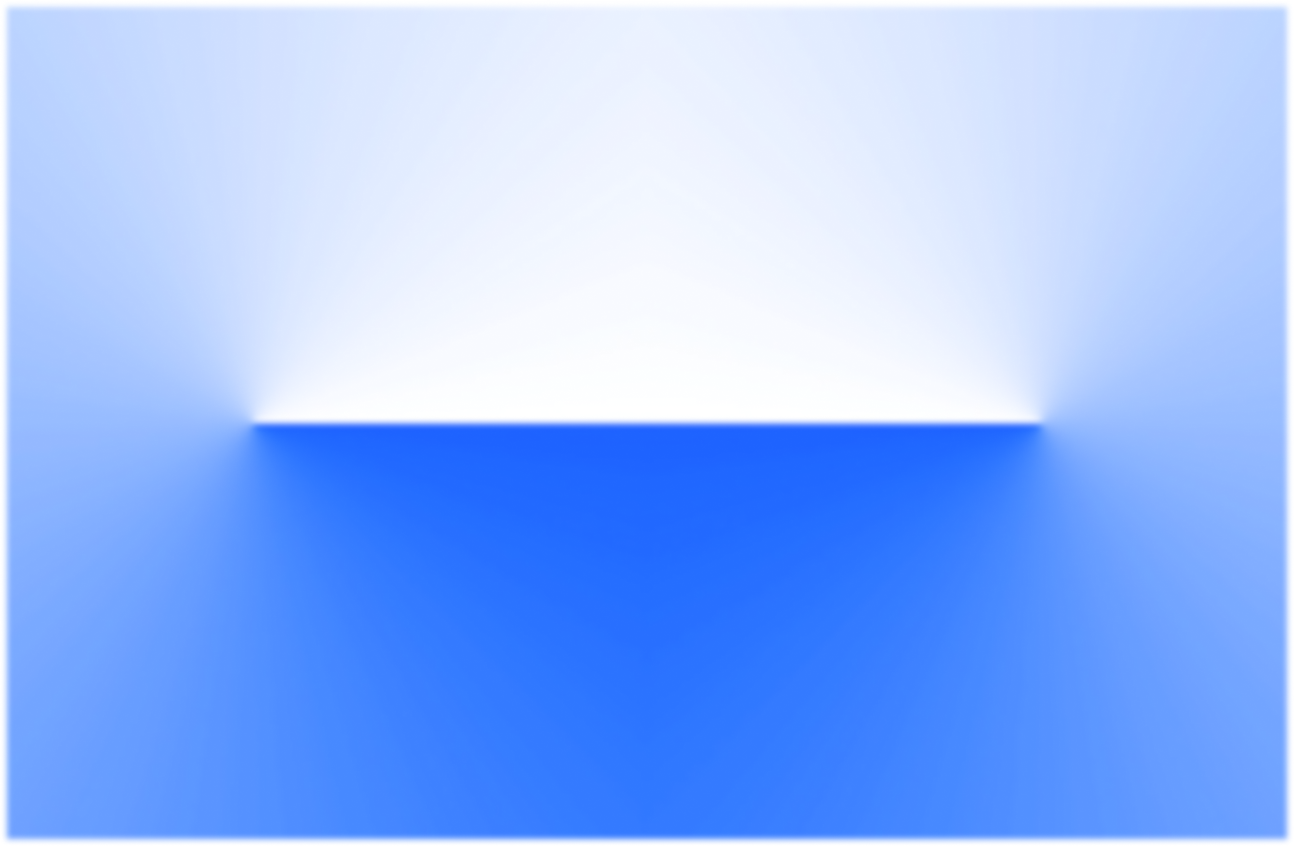
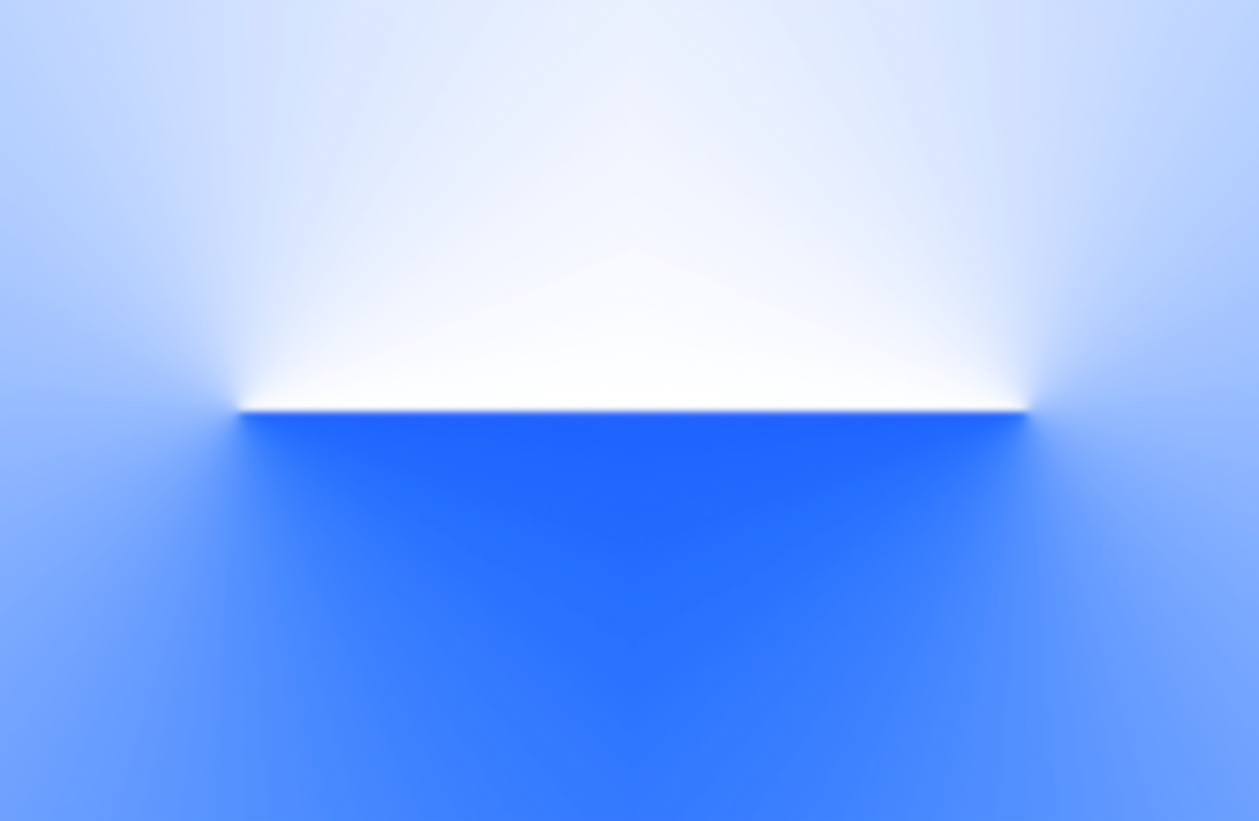
added copy functionality

Changed region(s): [[0.0, 0.0, 1.0, 1.0], [0.8054, 0.4568, 0.8364, 0.5481], [0.1859, 0.4872, 0.2168, 0.5177]]

diff --git a/style.css b/style.css
@@ -17,7 +17,7 @@ body {
     padding: 20px 0;
     color: #0052fe;
     background-image: url('./images/background.png');
-    background-size: cover;
+    background-size: 100%;
     background-repeat: no-repeat;
     background-position: center;
 }
